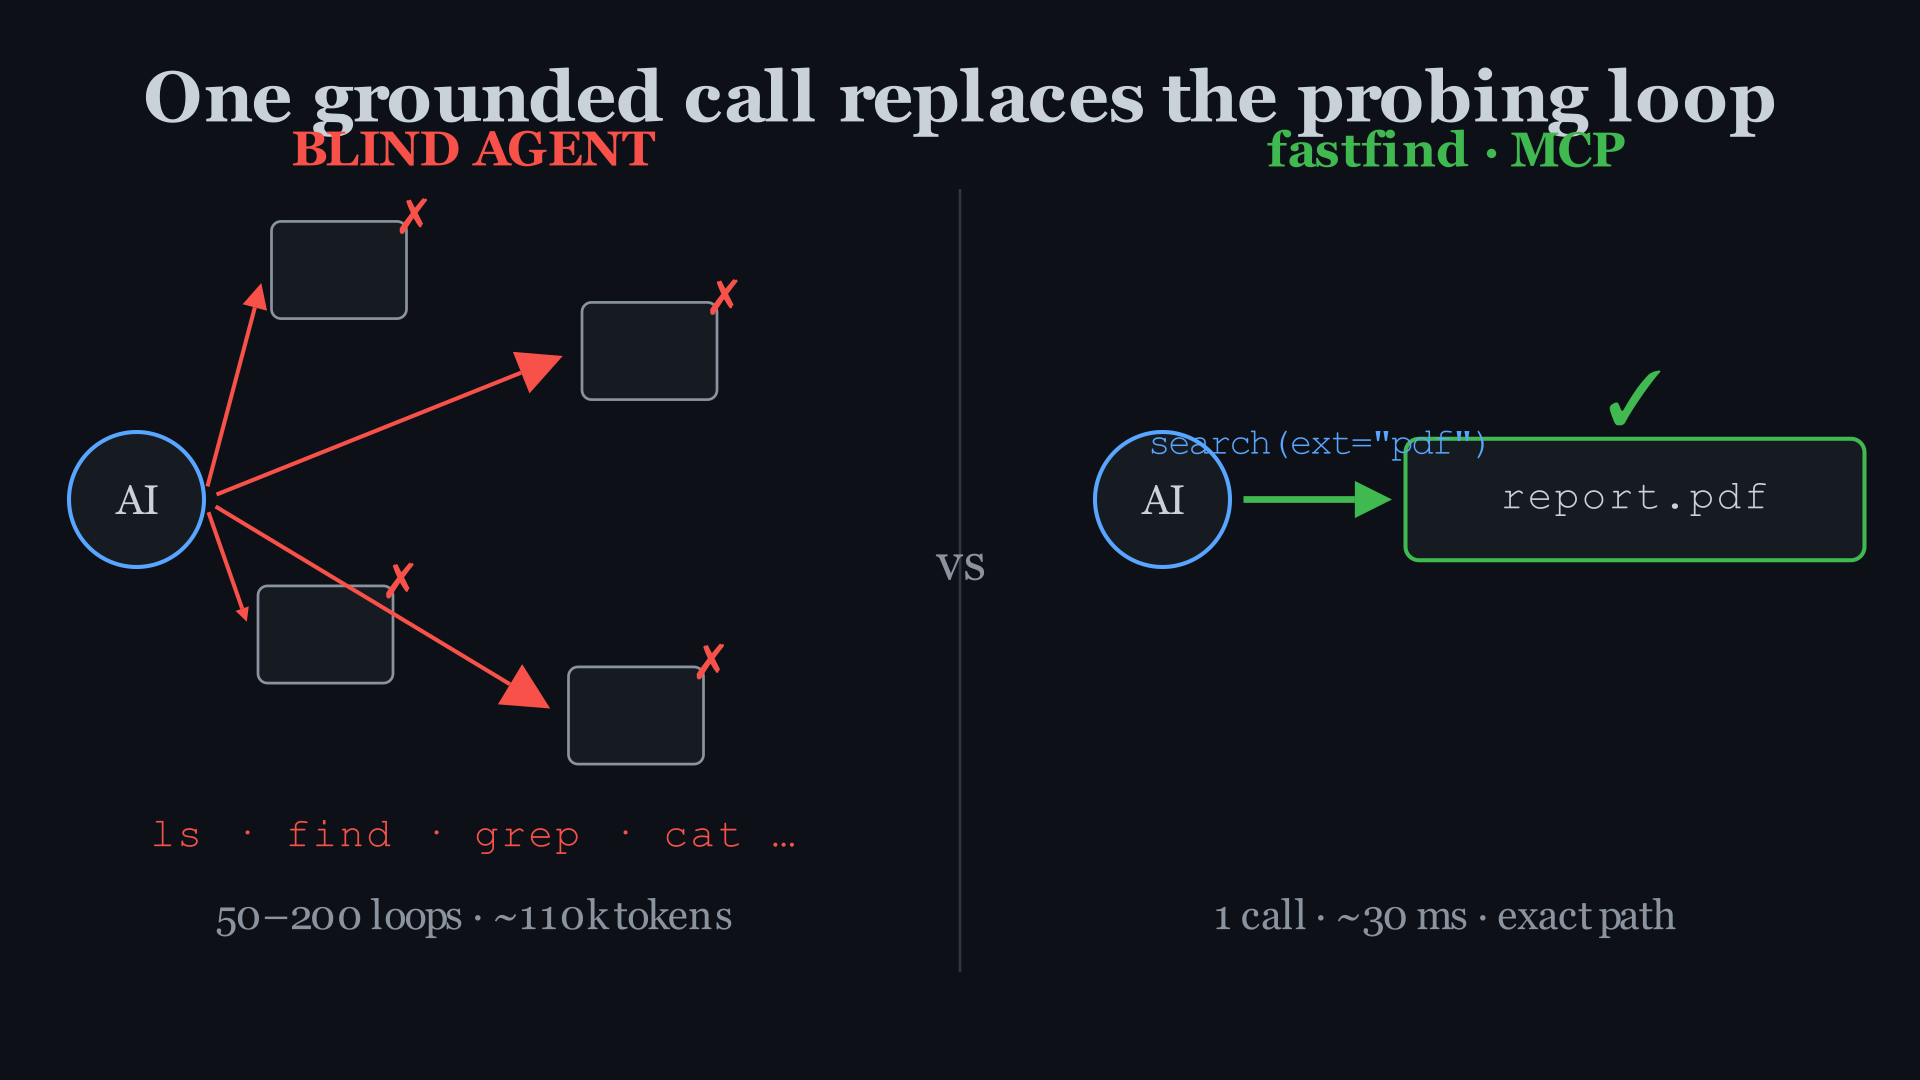
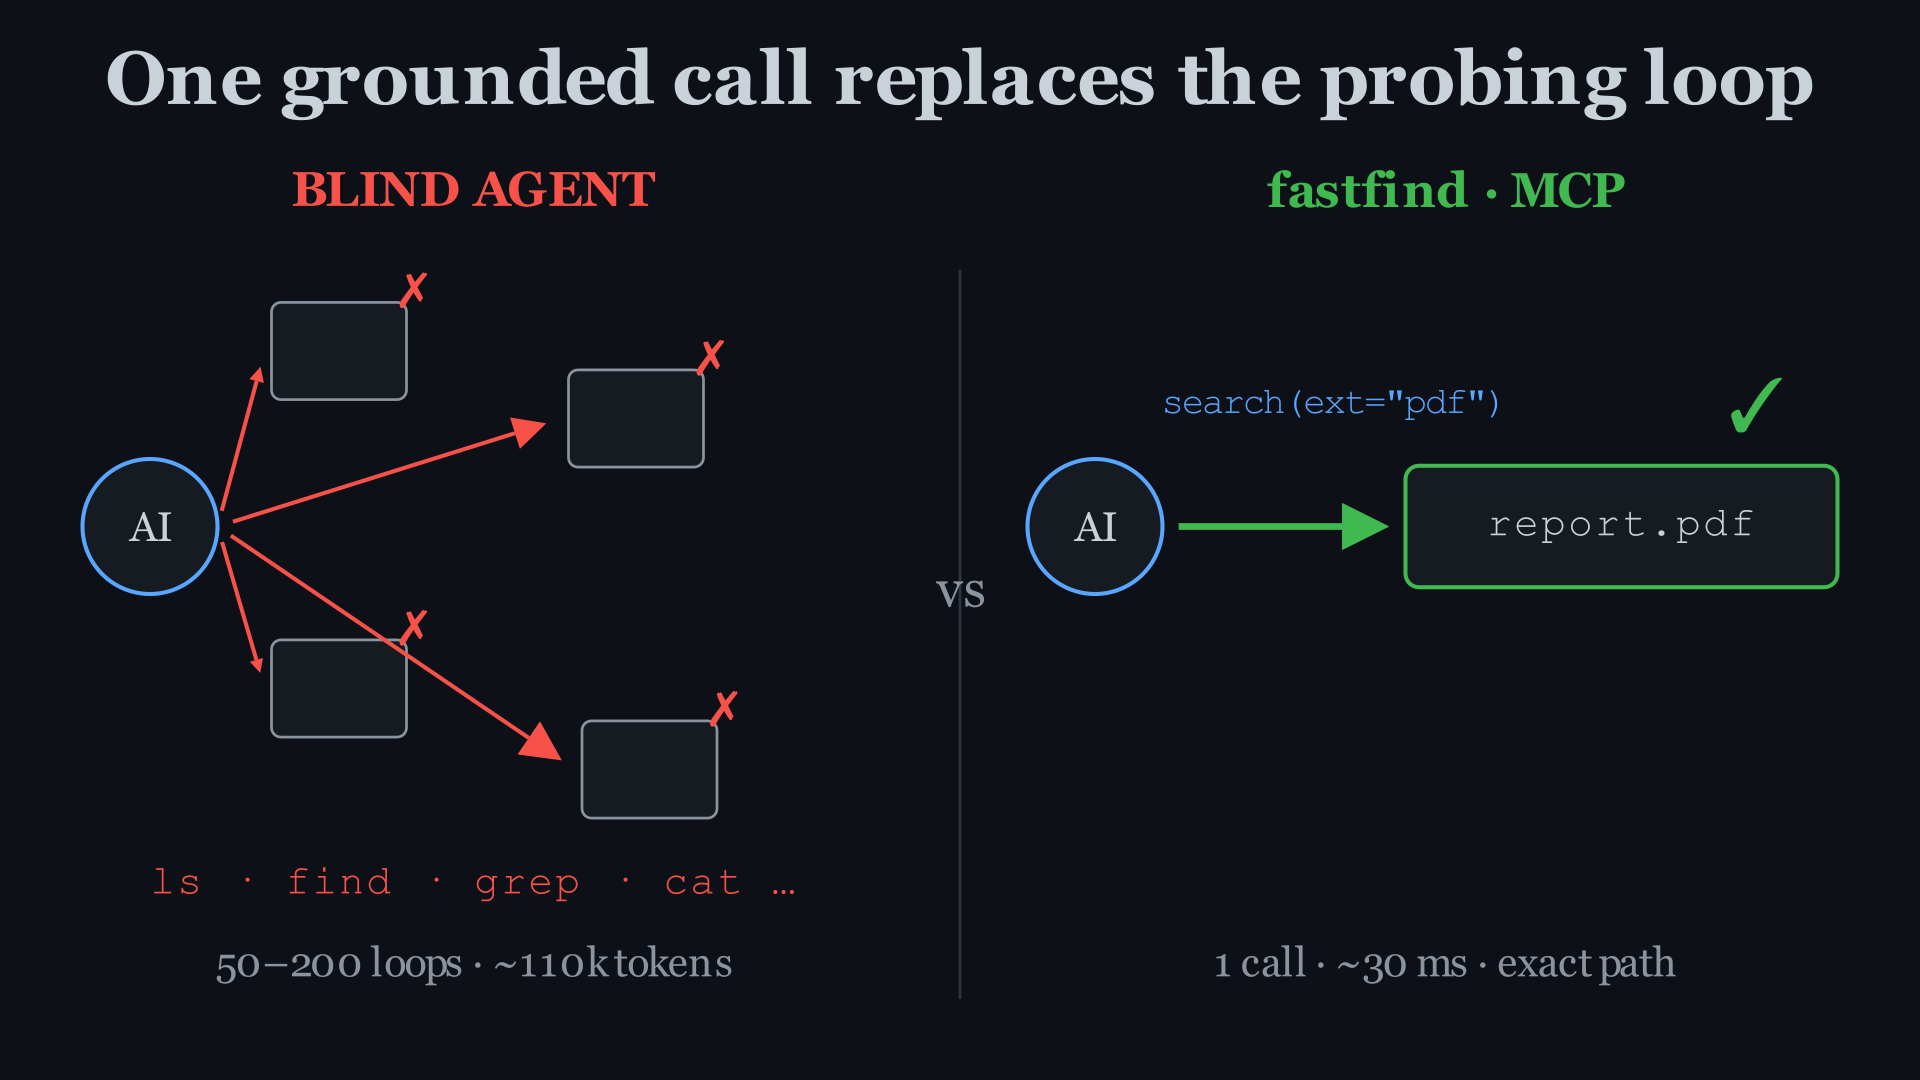
docs: respace concept image, drop editor install badges, add demo slot + scenario

diff --git a/docs/anim/probe_concept.py b/docs/anim/probe_concept.py
@@ -9,51 +9,60 @@ RED = "#f85149"
 PANEL = "#161b22"
 
 
+def _agent(pos):
+    c = Circle(radius=0.5, color=BLUE, fill_color=PANEL, fill_opacity=1, stroke_width=3).move_to(pos)
+    t = Text("AI", color=FG, font_size=22).move_to(pos)
+    return VGroup(c, t)
+
+
 class ProbeConcept(Scene):
     def construct(self):
         title = Text("One grounded call replaces the probing loop", color=FG,
-                     weight=BOLD, font_size=38).to_edge(UP, buff=0.5)
+                     weight=BOLD, font_size=40).to_edge(UP, buff=0.35)
 
-        # divider
-        div = Line([0, -3.2, 0], [0, 2.6, 0], color="#30363d", stroke_width=2)
-        vs = Text("vs", color=MUTED, font_size=28).move_to([0, -0.2, 0])
-
-        def agent(pos):
-            c = Circle(radius=0.5, color=BLUE, fill_color=PANEL, fill_opacity=1, stroke_width=3).move_to(pos)
-            t = Text("AI", color=FG, font_size=22).move_to(pos)
-            return VGroup(c, t)
+        div = Line([0, -3.4, 0], [0, 2.0, 0], color="#30363d", stroke_width=2)
+        vs = Text("vs", color=MUTED, font_size=28).move_to([0, -0.4, 0])
 
         def folder(pos):
-            return RoundedRectangle(width=1.0, height=0.72, corner_radius=0.07,
-                                    stroke_color=MUTED, stroke_width=2,
-                                    fill_color=PANEL, fill_opacity=1).move_to(pos)
+            return RoundedRectangle(width=1.0, height=0.72, corner_radius=0.07, stroke_color=MUTED,
+                                    stroke_width=2, fill_color=PANEL, fill_opacity=1).move_to(pos)
 
         # ---- left: blind ----
-        lhead = Text("BLIND AGENT", color=RED, weight=BOLD, font_size=26).move_to([-3.6, 2.9, 0])
-        la = agent([-6.1, 0.3, 0])
-        spots = [[-4.6, 2.0, 0], [-2.3, 1.4, 0], [-4.7, -0.7, 0], [-2.4, -1.3, 0]]
+        lhead = Text("BLIND AGENT", color=RED, weight=BOLD, font_size=26).move_to([-3.6, 2.6, 0])
+        la = _agent([-6.0, 0.1, 0])
         left = VGroup(lhead, la)
-        for p in spots:
+        for p in [[-4.6, 1.4, 0], [-2.4, 0.9, 0], [-4.6, -1.1, 0], [-2.3, -1.7, 0]]:
             f = folder(p)
-            ar = Arrow(la.get_right(), [p[0] - 0.55, p[1], 0], buff=0.1, color=RED, stroke_width=3,
-                       max_tip_length_to_length_ratio=0.12)
-            x = Text("✗", color=RED, font_size=26).move_to([p[0] + 0.55, p[1] + 0.4, 0])
+            ar = Arrow(la.get_right(), [p[0] - 0.55, p[1], 0], buff=0.12, color=RED, stroke_width=3,
+                       max_tip_length_to_length_ratio=0.1)
+            x = Text("✗", color=RED, font_size=26).move_to([p[0] + 0.55, p[1] + 0.45, 0])
             left.add(ar, f, x)
-        lcmd = Text("ls · find · grep · cat …", color=RED, font_size=22,
-                    font="monospace").move_to([-3.6, -2.2, 0])
-        lcap = Text("50–200 loops · ~110k tokens", color=MUTED, font_size=22).move_to([-3.6, -2.8, 0])
-        left.add(lcmd, lcap)
+        left.add(Text("ls · find · grep · cat …", color=RED, font_size=22, font="monospace").move_to([-3.6, -2.55, 0]))
+        left.add(Text("50–200 loops · ~110k tokens", color=MUTED, font_size=22).move_to([-3.6, -3.15, 0]))
 
         # ---- right: fastfind ----
-        rhead = Text("fastfind · MCP", color=GREEN, weight=BOLD, font_size=26).move_to([3.6, 2.9, 0])
-        ra = agent([1.5, 0.3, 0])
-        fbox = RoundedRectangle(width=3.4, height=0.9, corner_radius=0.1, stroke_color=GREEN,
-                                stroke_width=3, fill_color=PANEL, fill_opacity=1).move_to([5.0, 0.3, 0])
+        rhead = Text("fastfind · MCP", color=GREEN, weight=BOLD, font_size=26).move_to([3.6, 2.6, 0])
+        ra = _agent([1.0, 0.1, 0])
+        fbox = RoundedRectangle(width=3.2, height=0.9, corner_radius=0.1, stroke_color=GREEN,
+                                stroke_width=3, fill_color=PANEL, fill_opacity=1).move_to([4.9, 0.1, 0])
         fpath = Text("report.pdf", color=FG, font_size=22, font="monospace").move_to(fbox)
-        rar = Arrow(ra.get_right(), fbox.get_left(), buff=0.1, color=GREEN, stroke_width=5)
-        rcall = Text('search(ext="pdf")', color=BLUE, font_size=20, font="monospace").next_to(rar, UP, buff=0.15)
-        chk = Text("✓", color=GREEN, font_size=40).next_to(fbox, UP, buff=0.1)
-        rcap = Text("1 call · ~30 ms · exact path", color=MUTED, font_size=22).move_to([3.6, -2.8, 0])
-        right = VGroup(rhead, ra, fbox, fpath, rar, rcall, chk, rcap)
+        rar = Arrow(ra.get_right(), fbox.get_left(), buff=0.12, color=GREEN, stroke_width=5)
+        call = Text('search(ext="pdf")', color=BLUE, font_size=20, font="monospace").move_to([2.75, 1.0, 0])
+        chk = Text("✓", color=GREEN, font_size=40).move_to([5.9, 1.0, 0])
+        rcap = Text("1 call · ~30 ms · exact path", color=MUTED, font_size=22).move_to([3.6, -3.15, 0])
+        right = VGroup(rhead, ra, fbox, fpath, rar, call, chk, rcap)
 
         self.add(title, div, vs, left, right)
+
+
+class DemoPlaceholder(Scene):
+    def construct(self):
+        tri = Triangle(color=GREEN, fill_color=GREEN, fill_opacity=1).scale(0.55).rotate(-PI / 2)
+        ring = Circle(radius=1.1, color=GREEN, stroke_width=4)
+        play = VGroup(ring, tri).move_to([0, 0.9, 0])
+        t1 = Text("live demo", color=FG, weight=BOLD, font_size=44).next_to(play, DOWN, buff=0.5)
+        t2 = Text('"find every file that imports numpy" — one grep call across the disk',
+                  color=MUTED, font_size=24).next_to(t1, DOWN, buff=0.25)
+        t3 = Text("drop your screen recording here (docs/demo.gif)", color="#484f58",
+                  font_size=18).next_to(t2, DOWN, buff=0.35)
+        self.add(play, t1, t2, t3)

diff --git a/README.md b/README.md
@@ -4,10 +4,16 @@
 ![Platform](https://img.shields.io/badge/platform-Windows-0078D6.svg)
 ![Built with Rust](https://img.shields.io/badge/built%20with-Rust-orange.svg)
 ![MCP](https://img.shields.io/badge/MCP-server-3fb950.svg)
-[![Install in Cursor](https://img.shields.io/badge/Install-Cursor-111.svg?logo=cursor)](cursor://anysphere.cursor-deeplink/mcp/install?name=fastfind&config=eyJjb21tYW5kIjogImZhc3RmaW5kIiwgImFyZ3MiOiBbIi0tbWNwIl19)
-[![Install in VS Code](https://img.shields.io/badge/Install-VS_Code-007ACC.svg?logo=visualstudiocode)](vscode:mcp/install?%7B%22name%22%3A%22fastfind%22%2C%22command%22%3A%22fastfind%22%2C%22args%22%3A%5B%22--mcp%22%5D%7D)
 
 **fastfind is an MCP server that gives AI coding agents instant, grounded access to the filesystem.** It exposes two tools — **`search`** (find files/folders by name, type, size, date) and **`grep`** (find text *inside* files) — both answered from a whole-machine index built off the NTFS Master File Table and kept in RAM. Your agent asks once and gets exact paths and line hits back, instead of guessing and burning tokens on `ls` / `grep` / `find` loops.
+
+---
+
+## Demo
+
+![fastfind grep across the whole disk, driven by an AI agent](docs/demo.gif)
+
+Ask your agent: *"Find every file that imports `numpy` across my machine, grouped by folder."* fastfind's `grep` returns all the hits from its resident index in one call — the same task by hand is dozens of `find` + `grep -r` loops across guessed directories.
 
 ---
 
